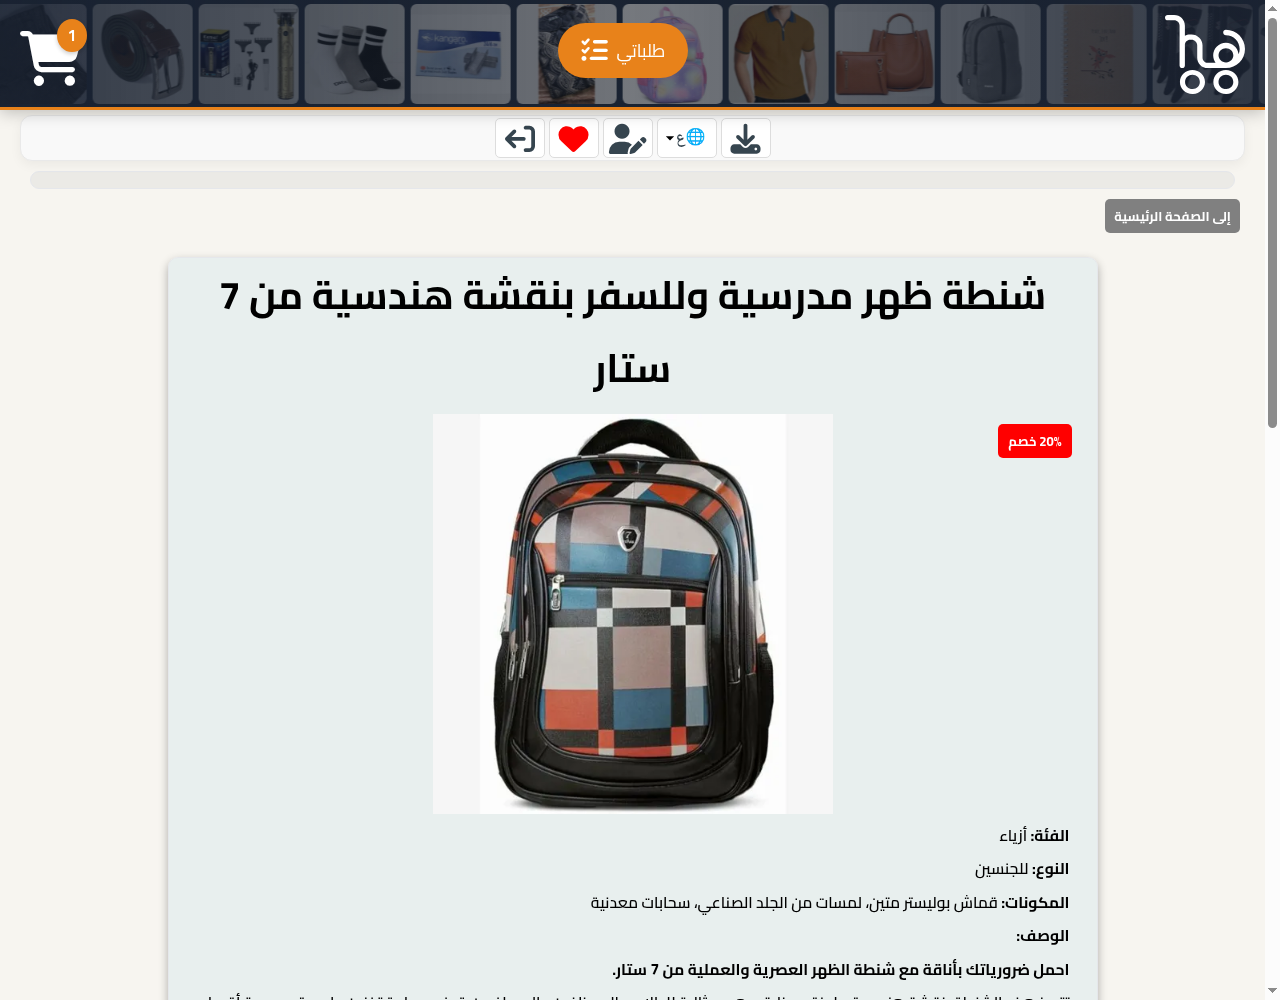
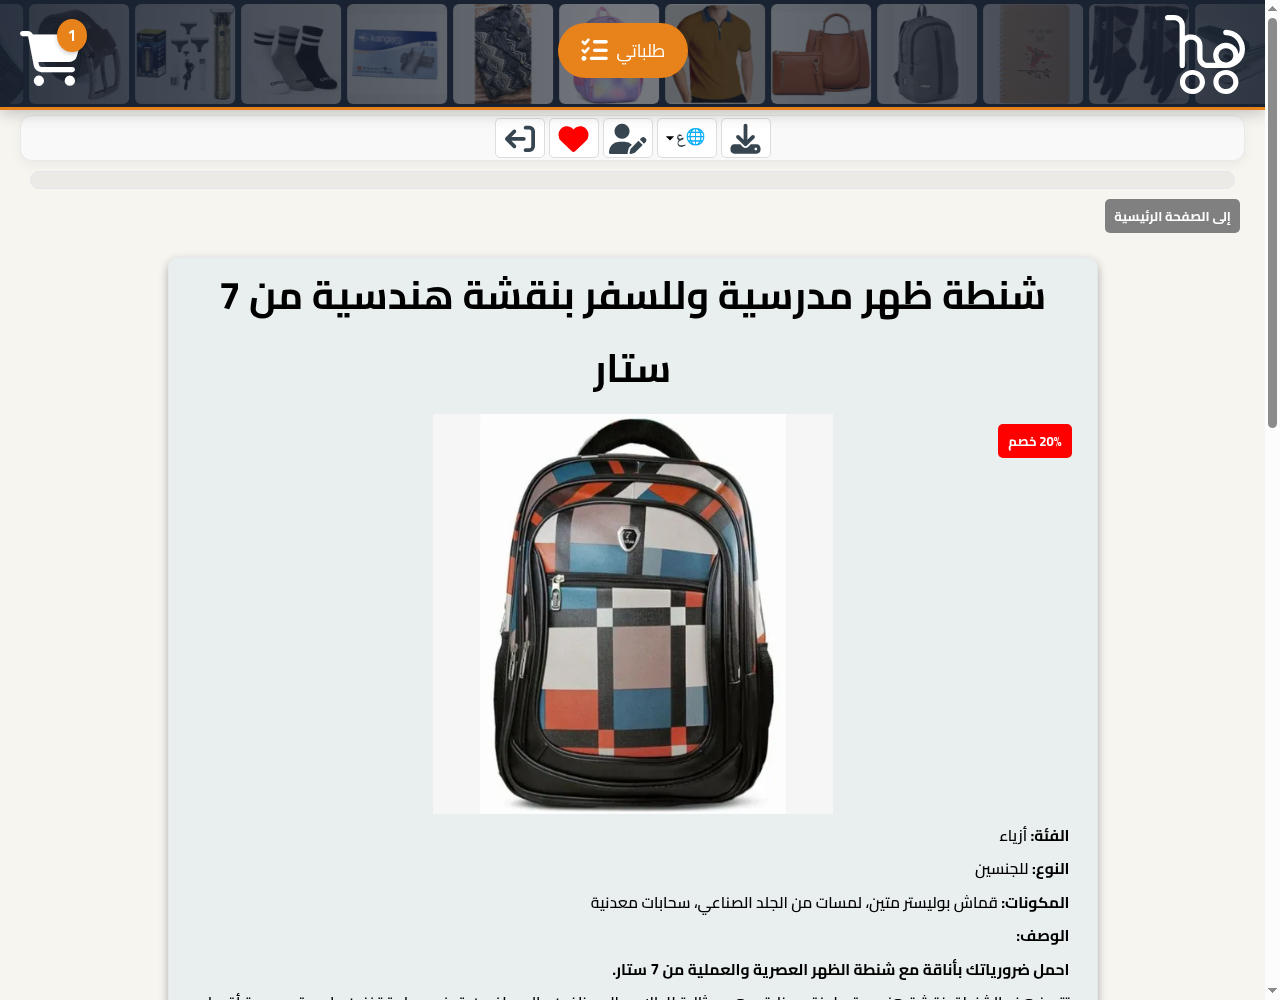
docs: add reviews, offers, checkout, AR product, and multi-image gallery screenshots

Changed region(s): [[0.0, 0.0, 0.9375, 0.124], [0.9375, 0.0, 0.9688, 0.062]]

diff --git a/README.md b/README.md
@@ -47,6 +47,14 @@ Captured from the live demo ([mist-app.onrender.com](https://mist-app.onrender.c
 | Checkout payment choice (Bank Card / COD) | Product detail (Arabic) |
 | ![Checkout](docs/screenshots/21-checkout.png) | ![Product AR](docs/screenshots/22-bilingual-product-ar.png) |
 
+### Multi-image product gallery
+
+Products support up to **10** images. Example from the live demo ([product 36](https://mist-app.onrender.com/product/36?product_size_id=66)):
+
+| Image 1 + thumbnails | Alternate image selected |
+|---|---|
+| ![Gallery 1](docs/screenshots/23-product-multi-images.png) | ![Gallery 2](docs/screenshots/24-product-multi-images-alt.png) |
+
 ### Admin
 
 | | |
